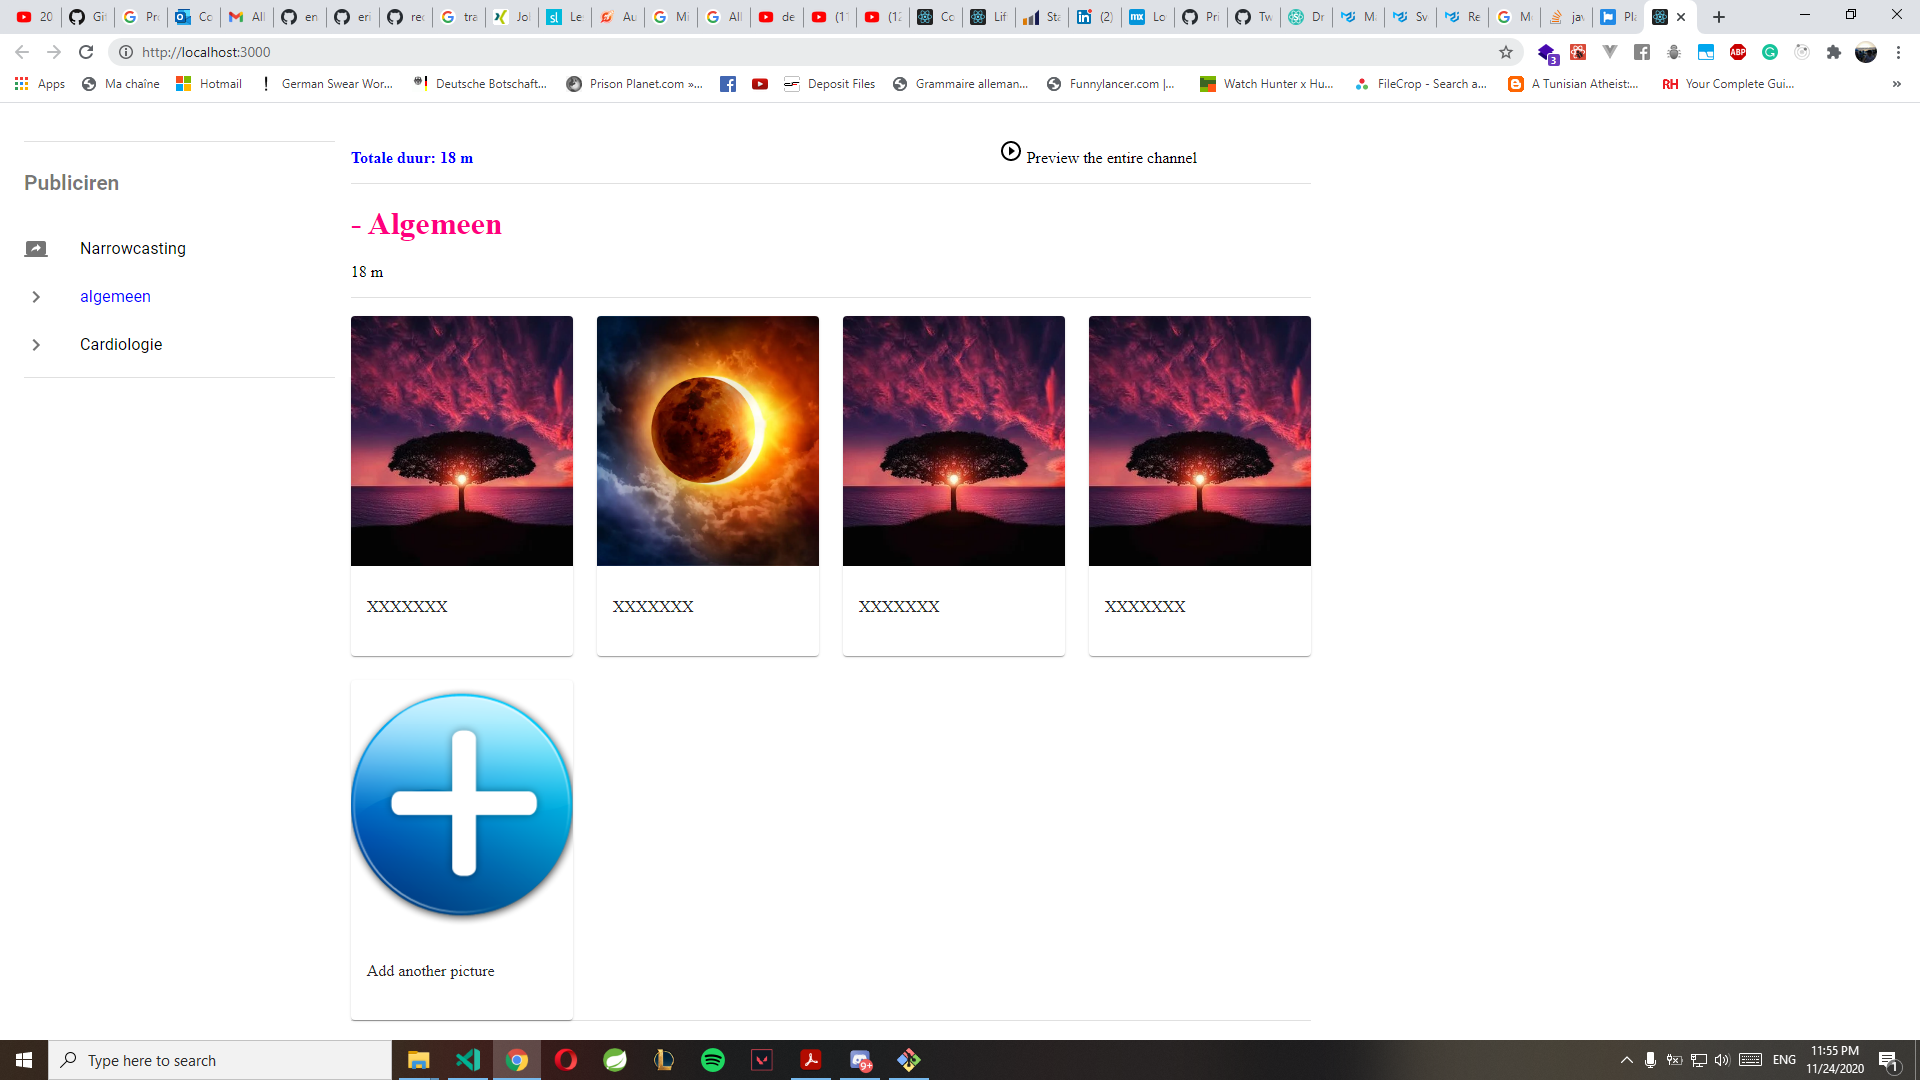
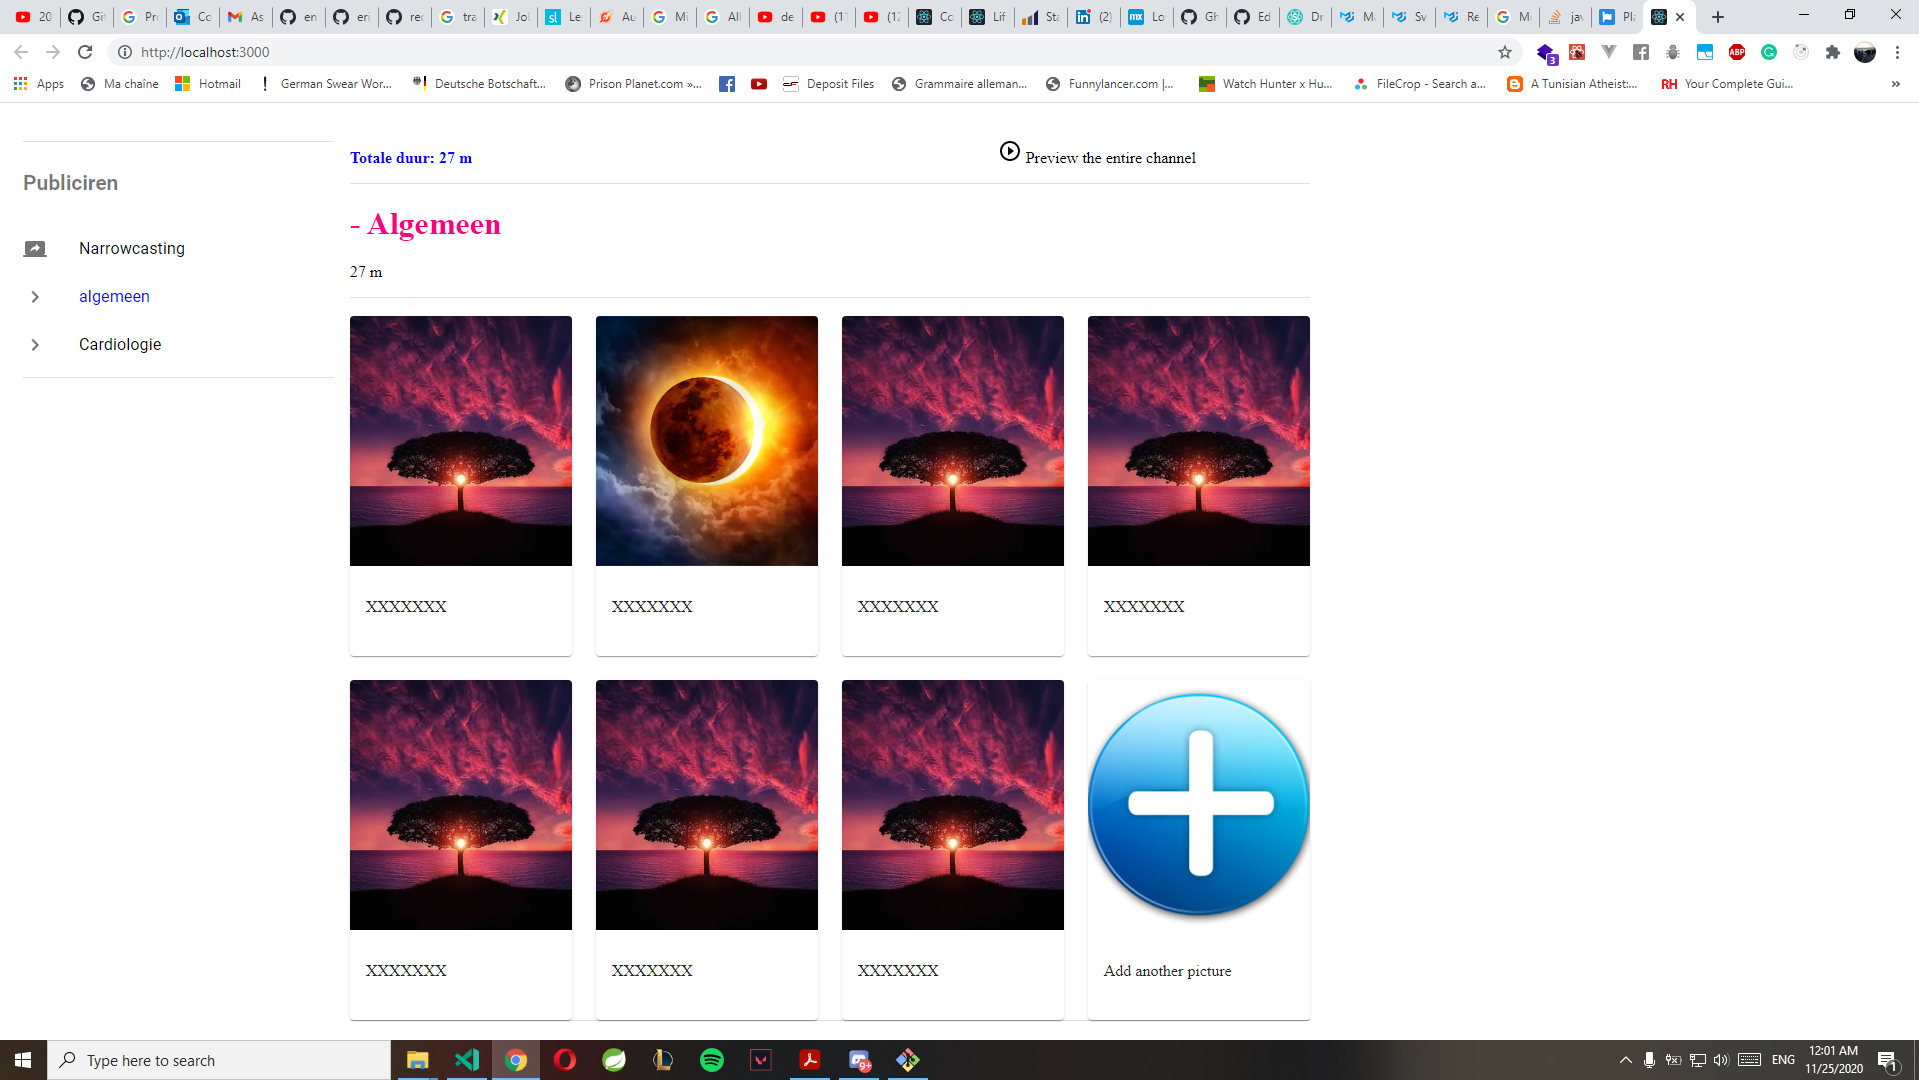
read me update

diff --git a/src/CHANNELS.js b/src/CHANNELS.js
@@ -1,5 +1,5 @@
 export const CHANNELS = {
-    "Algemeen":{name : 'algemeen' , slides : [{name:'XXXXXXX',img:'https://cdn.pixabay.com/photo/2015/04/23/22/00/tree-736885__340.jpg',duration:3},{name:'XXXXXXX',img:'https://static.toiimg.com/photo/72975551.cms',duration:5},{name:'XXXXXXX',img:'https://cdn.pixabay.com/photo/2015/04/23/22/00/tree-736885__340.jpg',duration:5},{name:'XXXXXXX',img:'https://cdn.pixabay.com/photo/2015/04/23/22/00/tree-736885__340.jpg',duration:5}]},
+    "Algemeen":{name : 'algemeen' , slides : [{name:'XXXXXXX',img:'https://cdn.pixabay.com/photo/2015/04/23/22/00/tree-736885__340.jpg',duration:3},{name:'XXXXXXX',img:'https://static.toiimg.com/photo/72975551.cms',duration:5},{name:'XXXXXXX',img:'https://cdn.pixabay.com/photo/2015/04/23/22/00/tree-736885__340.jpg',duration:5},{name:'XXXXXXX',img:'https://cdn.pixabay.com/photo/2015/04/23/22/00/tree-736885__340.jpg',duration:5},{name:'XXXXXXX',img:'https://cdn.pixabay.com/photo/2015/04/23/22/00/tree-736885__340.jpg',duration:3},{name:'XXXXXXX',img:'https://cdn.pixabay.com/photo/2015/04/23/22/00/tree-736885__340.jpg',duration:3},{name:'XXXXXXX',img:'https://cdn.pixabay.com/photo/2015/04/23/22/00/tree-736885__340.jpg',duration:3}]},
     "Cardiologie":{name : 'Cardiologie', slides:[{name:'YYYYY',img:'',duration:5},{name:'YYYYY',img:'',duration:5},{name:'YYYYY',img:'',duration:5},{name:'YYYYY',img:'',duration:5}]}
 }
     
